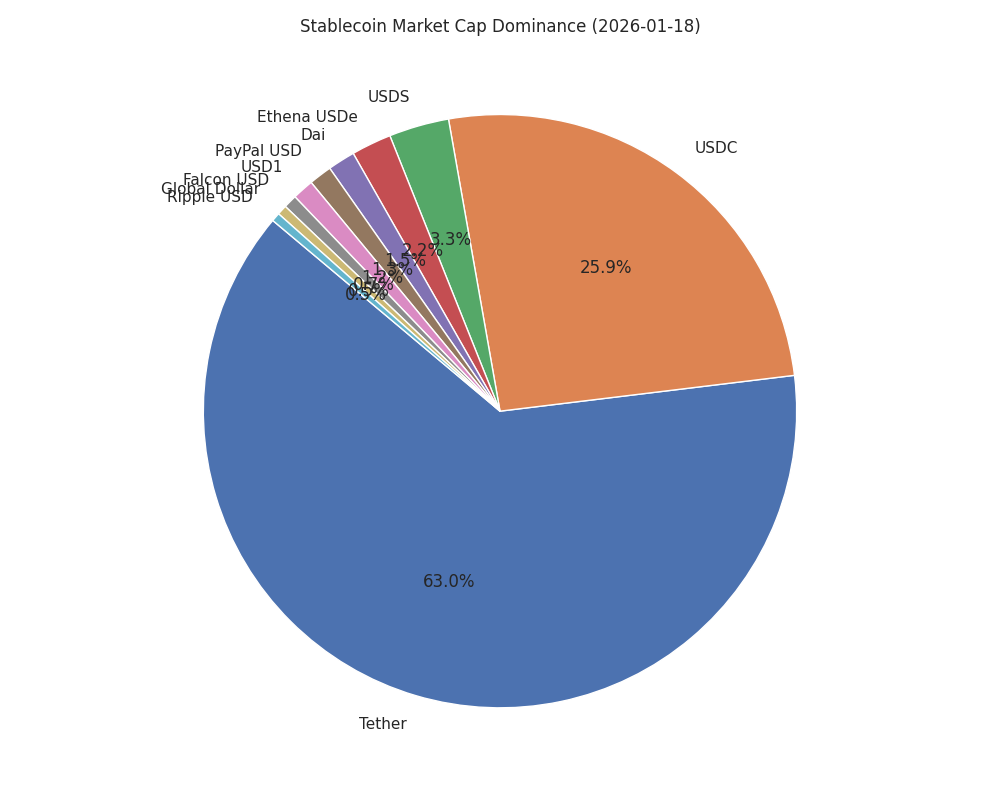
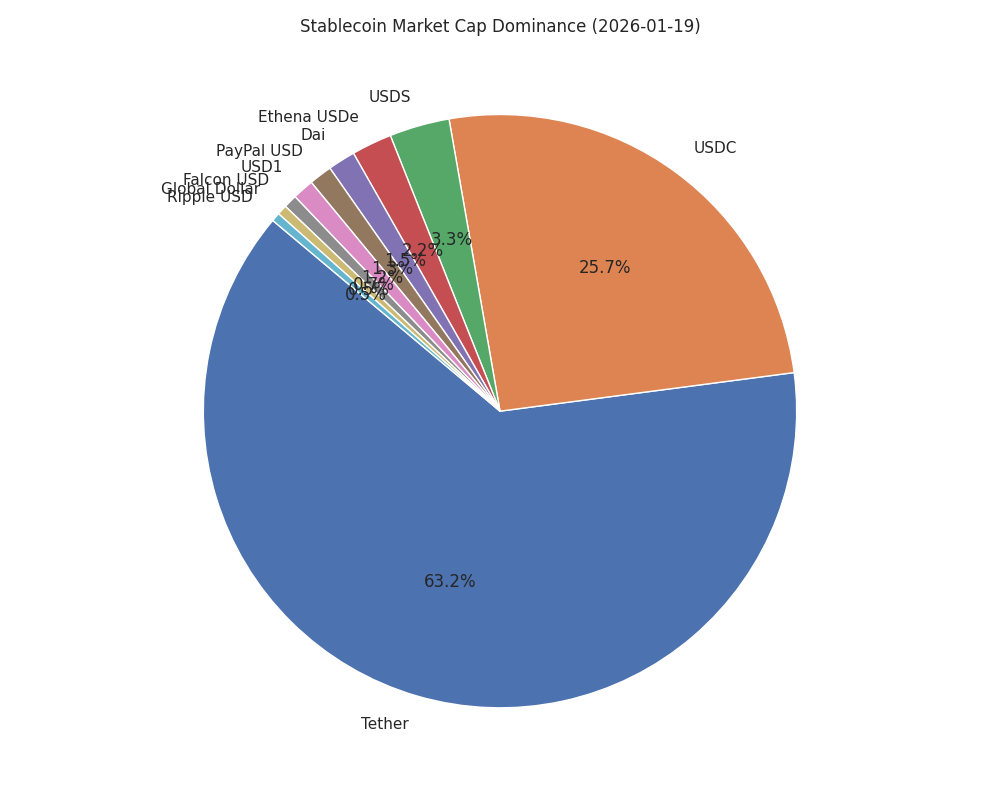
data: update stablecoin market cap csv, plot, and dashboard

diff --git a/index.html b/index.html
@@ -16,7 +16,7 @@
 <body>
     <div class="container">
         <h1 class="text-center mb-4">Stablecoin Market Cap Tracker</h1>
-        <p class="text-center text-muted">Last Updated: 2026-01-18 01:12:28 (UTC)</p>
+        <p class="text-center text-muted">Last Updated: 2026-01-19 01:11:15 (UTC)</p>
 
         <div class="row">
             <div class="col-md-8 offset-md-2">
@@ -24,7 +24,7 @@
                     <div class="card-header">Market Cap Overview</div>
                     <div class="card-body">
                          <div class="alert alert-info">
-                            <strong>Total Market Cap:</strong> $296,297,900,102
+                            <strong>Total Market Cap:</strong> $295,813,840,690
                         </div>
                         <table class="dataframe table table-striped table-hover">
   <thead>
@@ -45,61 +45,61 @@
     <tr>
       <th>1</th>
       <td>Tether</td>
-      <td>$186,783,087,558</td>
-      <td>63.04%</td>
+      <td>$186,918,426,684</td>
+      <td>63.19%</td>
     </tr>
     <tr>
       <th>2</th>
       <td>USDC</td>
-      <td>$76,597,084,340</td>
-      <td>25.85%</td>
+      <td>$75,945,479,945</td>
+      <td>25.67%</td>
     </tr>
     <tr>
       <th>3</th>
       <td>USDS</td>
-      <td>$9,704,538,440</td>
+      <td>$9,696,594,463</td>
       <td>3.28%</td>
     </tr>
     <tr>
       <th>4</th>
       <td>Ethena USDe</td>
-      <td>$6,474,715,051</td>
-      <td>2.19%</td>
+      <td>$6,495,958,168</td>
+      <td>2.20%</td>
     </tr>
     <tr>
       <th>5</th>
       <td>Dai</td>
-      <td>$4,420,278,014</td>
-      <td>1.49%</td>
+      <td>$4,426,643,827</td>
+      <td>1.50%</td>
     </tr>
     <tr>
       <th>6</th>
       <td>PayPal USD</td>
-      <td>$3,719,416,035</td>
+      <td>$3,719,894,681</td>
       <td>1.26%</td>
     </tr>
     <tr>
       <th>7</th>
       <td>USD1</td>
-      <td>$3,439,810,991</td>
+      <td>$3,439,151,271</td>
       <td>1.16%</td>
     </tr>
     <tr>
       <th>8</th>
       <td>Falcon USD</td>
-      <td>$2,165,830,398</td>
+      <td>$2,166,472,765</td>
       <td>0.73%</td>
     </tr>
     <tr>
       <th>9</th>
       <td>Global Dollar</td>
-      <td>$1,588,098,982</td>
+      <td>$1,600,555,376</td>
       <td>0.54%</td>
     </tr>
     <tr>
       <th>10</th>
       <td>Ripple USD</td>
-      <td>$1,405,040,295</td>
+      <td>$1,404,663,508</td>
       <td>0.47%</td>
     </tr>
   </tbody>
